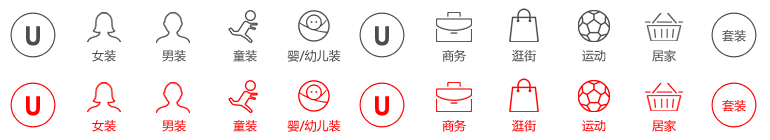
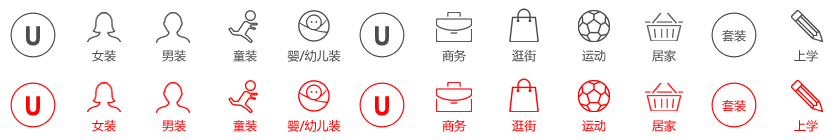
地图增加选择框

diff --git a/Home/Tpl/Public/css/dressing_room.css b/Home/Tpl/Public/css/dressing_room.css
@@ -179,7 +179,7 @@ button,label{cursor:pointer; }
 
 .dr_main_con_sub_nav{ width:950px; height:70px; background:url(../images/dr_main_con_sub_nav_bg.png) 0 0 no-repeat;}
 .dr_main_con_sub_nav ul{ float:left; height:70px;}
-.dr_main_con_sub_nav ul li{ display:block; float:left; height:70px; width:70px; background:url(../images/line2.png) right 0 no-repeat;}
+.dr_main_con_sub_nav ul li{  float:left; height:70px; width:70px; background:url(../images/line2.png) right 0 no-repeat;}
 .dr_main_con_sub_nav ul li.select{ background:#FFF;}
 .dr_main_con_sub_nav ul li a{ display:block; height:70px; width:70px;}
 
@@ -196,7 +196,7 @@ button,label{cursor:pointer; }
 .dr_main_con_sub_nav ul li.rw_tongzhuang a:hover { background:url(../images/dr_main_con_sub_nav.png) -210px -70px no-repeat;}
 .dr_main_con_sub_nav ul li.rw_yinyouer a:hover { background:url(../images/dr_main_con_sub_nav.png) -280px -70px no-repeat;}
 
-.dr_main_con_sub_nav ul li.rw_all.select a { background:url(../images/dr_main_con_sub_nav.png) 0 0 no-repeat;}
+.dr_main_con_sub_nav ul li.rw_all.select a { background:url(../images/dr_main_con_sub_nav.png) 0 -70px no-repeat;}
 .dr_main_con_sub_nav ul li.rw_nvzhuang.select a { background:url(../images/dr_main_con_sub_nav.png) -70px -70px no-repeat;}
 .dr_main_con_sub_nav ul li.rw_nanzhuang.select a { background:url(../images/dr_main_con_sub_nav.png) -140px -70px no-repeat;}
 .dr_main_con_sub_nav ul li.rw_tongzhuang.select a { background:url(../images/dr_main_con_sub_nav.png) -210px -70px no-repeat;}
@@ -205,18 +205,21 @@ button,label{cursor:pointer; }
 /*分类2*/
 .dr_main_con_sub_nav ul li.ch_all a { background:url(../images/dr_main_con_sub_nav.png) -350px 0 no-repeat;}
 .dr_main_con_sub_nav ul li.ch_shangwu a { background:url(../images/dr_main_con_sub_nav.png) -420px 0 no-repeat;}
+.dr_main_con_sub_nav ul li.ch_shangxue a { background:url(../images/dr_main_con_sub_nav.png) -770px 0 no-repeat;}
 .dr_main_con_sub_nav ul li.ch_guangjie a { background:url(../images/dr_main_con_sub_nav.png) -490px 0 no-repeat;}
 .dr_main_con_sub_nav ul li.ch_yundong a { background:url(../images/dr_main_con_sub_nav.png) -560px 0 no-repeat;}
 .dr_main_con_sub_nav ul li.ch_jujia a { background:url(../images/dr_main_con_sub_nav.png) -630px 0 no-repeat;}
 
 .dr_main_con_sub_nav ul li.ch_all a:hover { background:url(../images/dr_main_con_sub_nav.png) -350px -70px no-repeat;}
 .dr_main_con_sub_nav ul li.ch_shangwu a:hover { background:url(../images/dr_main_con_sub_nav.png) -420px -70px no-repeat;}
+.dr_main_con_sub_nav ul li.ch_shangxue a:hover { background:url(../images/dr_main_con_sub_nav.png) -770px -70px no-repeat;}
 .dr_main_con_sub_nav ul li.ch_guangjie a:hover { background:url(../images/dr_main_con_sub_nav.png) -490px -70px no-repeat;}
 .dr_main_con_sub_nav ul li.ch_yundong a:hover { background:url(../images/dr_main_con_sub_nav.png) -560px -70px no-repeat;}
 .dr_main_con_sub_nav ul li.ch_jujia a:hover { background:url(../images/dr_main_con_sub_nav.png) -630px -70px no-repeat;}
 
-.dr_main_con_sub_nav ul li.ch_all.select a { background:url(../images/dr_main_con_sub_nav.png) -350px 0 no-repeat;}
+.dr_main_con_sub_nav ul li.ch_all.select a { background:url(../images/dr_main_con_sub_nav.png) -350px -70px no-repeat;}
 .dr_main_con_sub_nav ul li.ch_shangwu.select a { background:url(../images/dr_main_con_sub_nav.png) -420px -70px no-repeat;}
+.dr_main_con_sub_nav ul li.ch_shangxue.select a { background:url(../images/dr_main_con_sub_nav.png) -770px -70px no-repeat;}
 .dr_main_con_sub_nav ul li.ch_guangjie.select a { background:url(../images/dr_main_con_sub_nav.png) -490px -70px no-repeat;}
 .dr_main_con_sub_nav ul li.ch_yundong.select a { background:url(../images/dr_main_con_sub_nav.png) -560px -70px no-repeat;}
 .dr_main_con_sub_nav ul li.ch_jujia.select a { background:url(../images/dr_main_con_sub_nav.png) -630px -70px no-repeat;}
@@ -224,7 +227,7 @@ button,label{cursor:pointer; }
 /*分类3*/
 .dr_main_con_sub_nav ul li.tz_sub_nav a { background:url(../images/dr_main_con_sub_nav.png) -700px 0 no-repeat;}
 .dr_main_con_sub_nav ul li.tz_sub_nav a:hover { background:url(../images/dr_main_con_sub_nav.png) -700px -70px no-repeat;}
-.dr_main_con_sub_nav ul li.tz_sub_nav.select a { background:url(../images/dr_main_con_sub_nav.png) -700px 0 no-repeat;}
+.dr_main_con_sub_nav ul li.tz_sub_nav.select a { background:url(../images/dr_main_con_sub_nav.png) -700px -70px no-repeat;}
 
 .youyigui_btn{ display:block; position:absolute; top:0; right:-25px; width:205px; height:70px; background:url(../images/youyigui_btn.png) 0 0 no-repeat;;}
 
@@ -313,3 +316,6 @@ a.mini-kv-add{
 a.light_box_close{  background:url(../images/close2.png) 0 0 no-repeat; width:41px; height:41px; position:absolute; right:-15px; top:-15px;}
 .map_light_box h3{ font-size:20px; color:#999;  font-weight:normal;}
 .light_box_u_map_con{ background:#555; width:760px; height:405px;}
+.mb15{
+    margin-bottom: 15px;
+}
